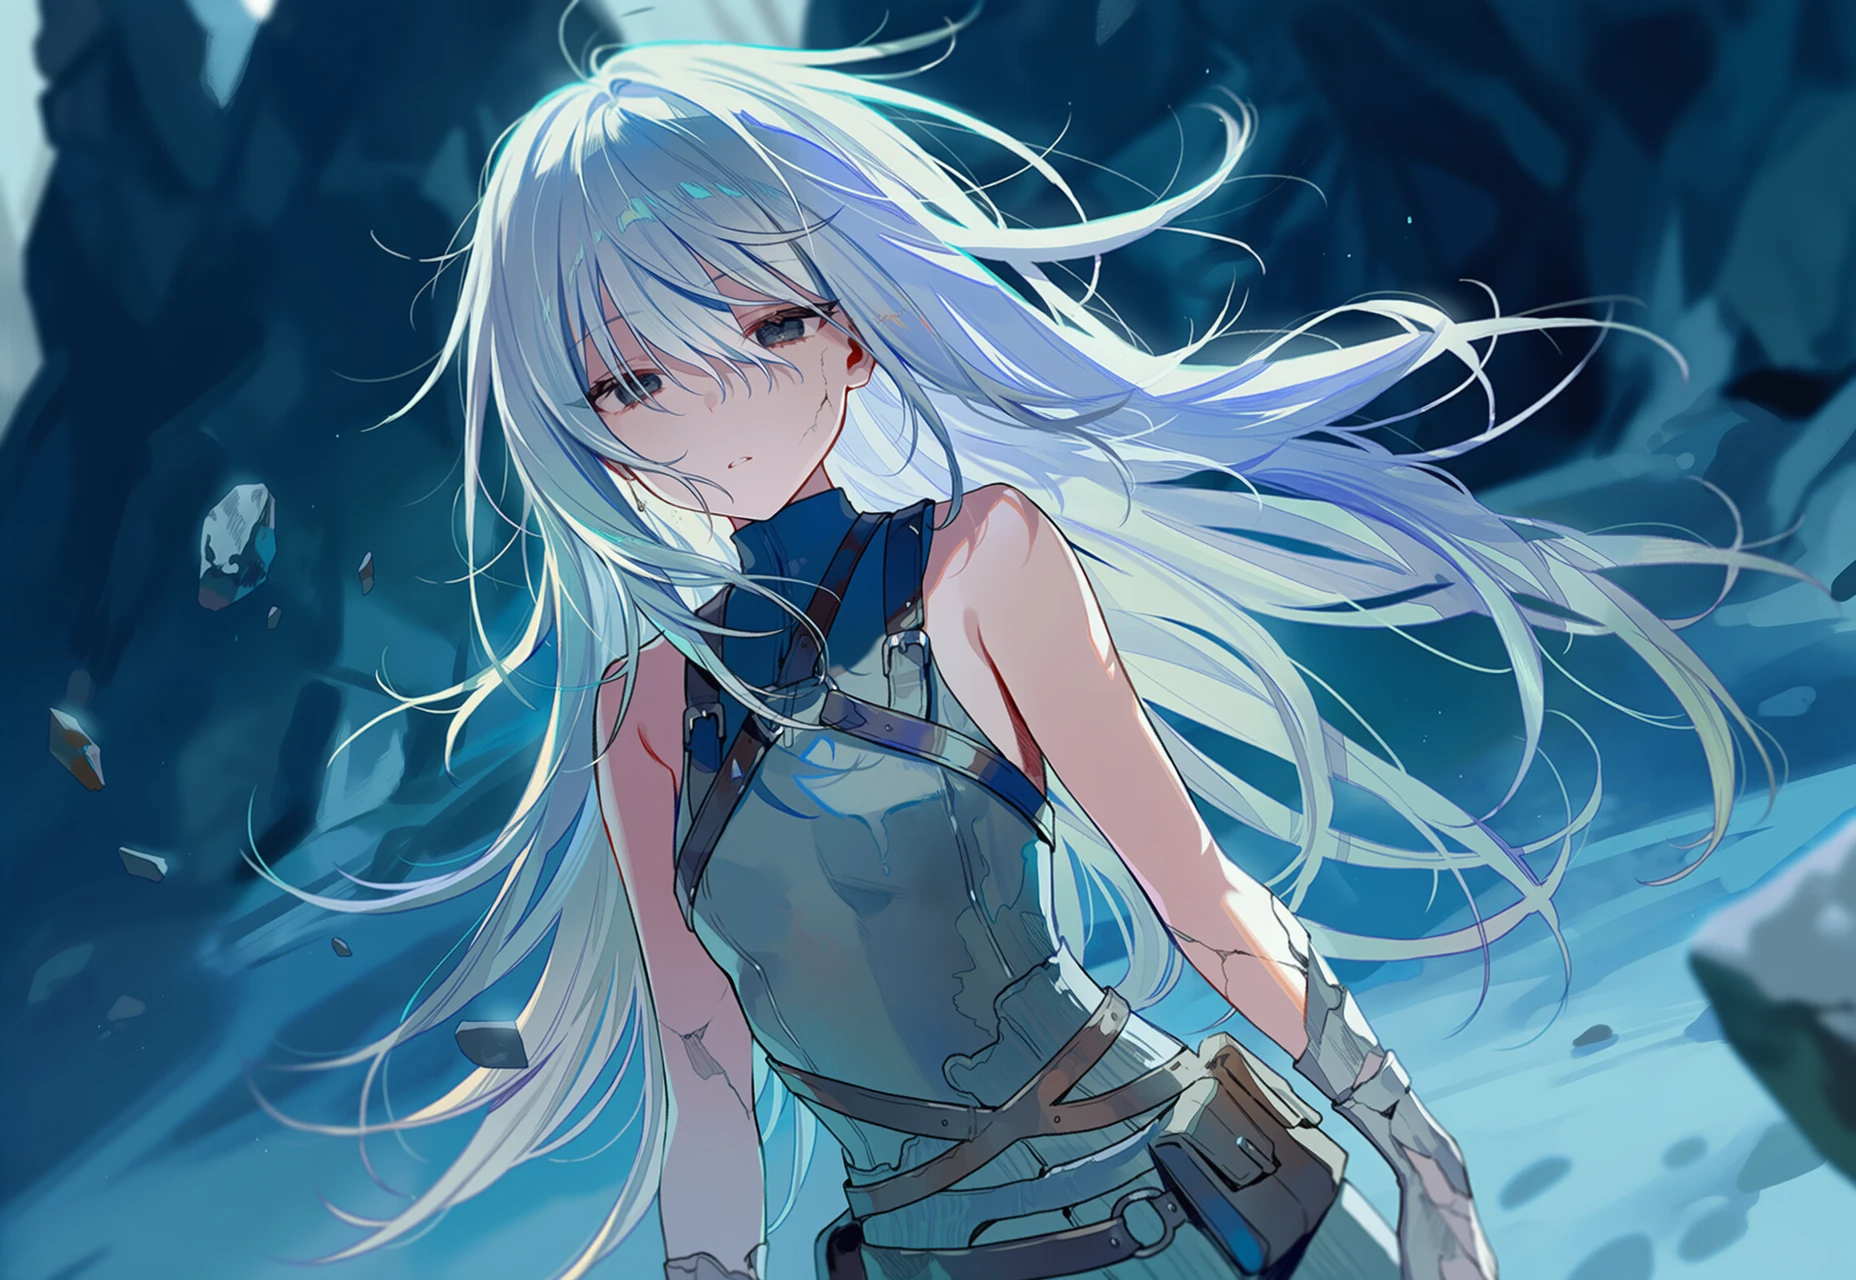
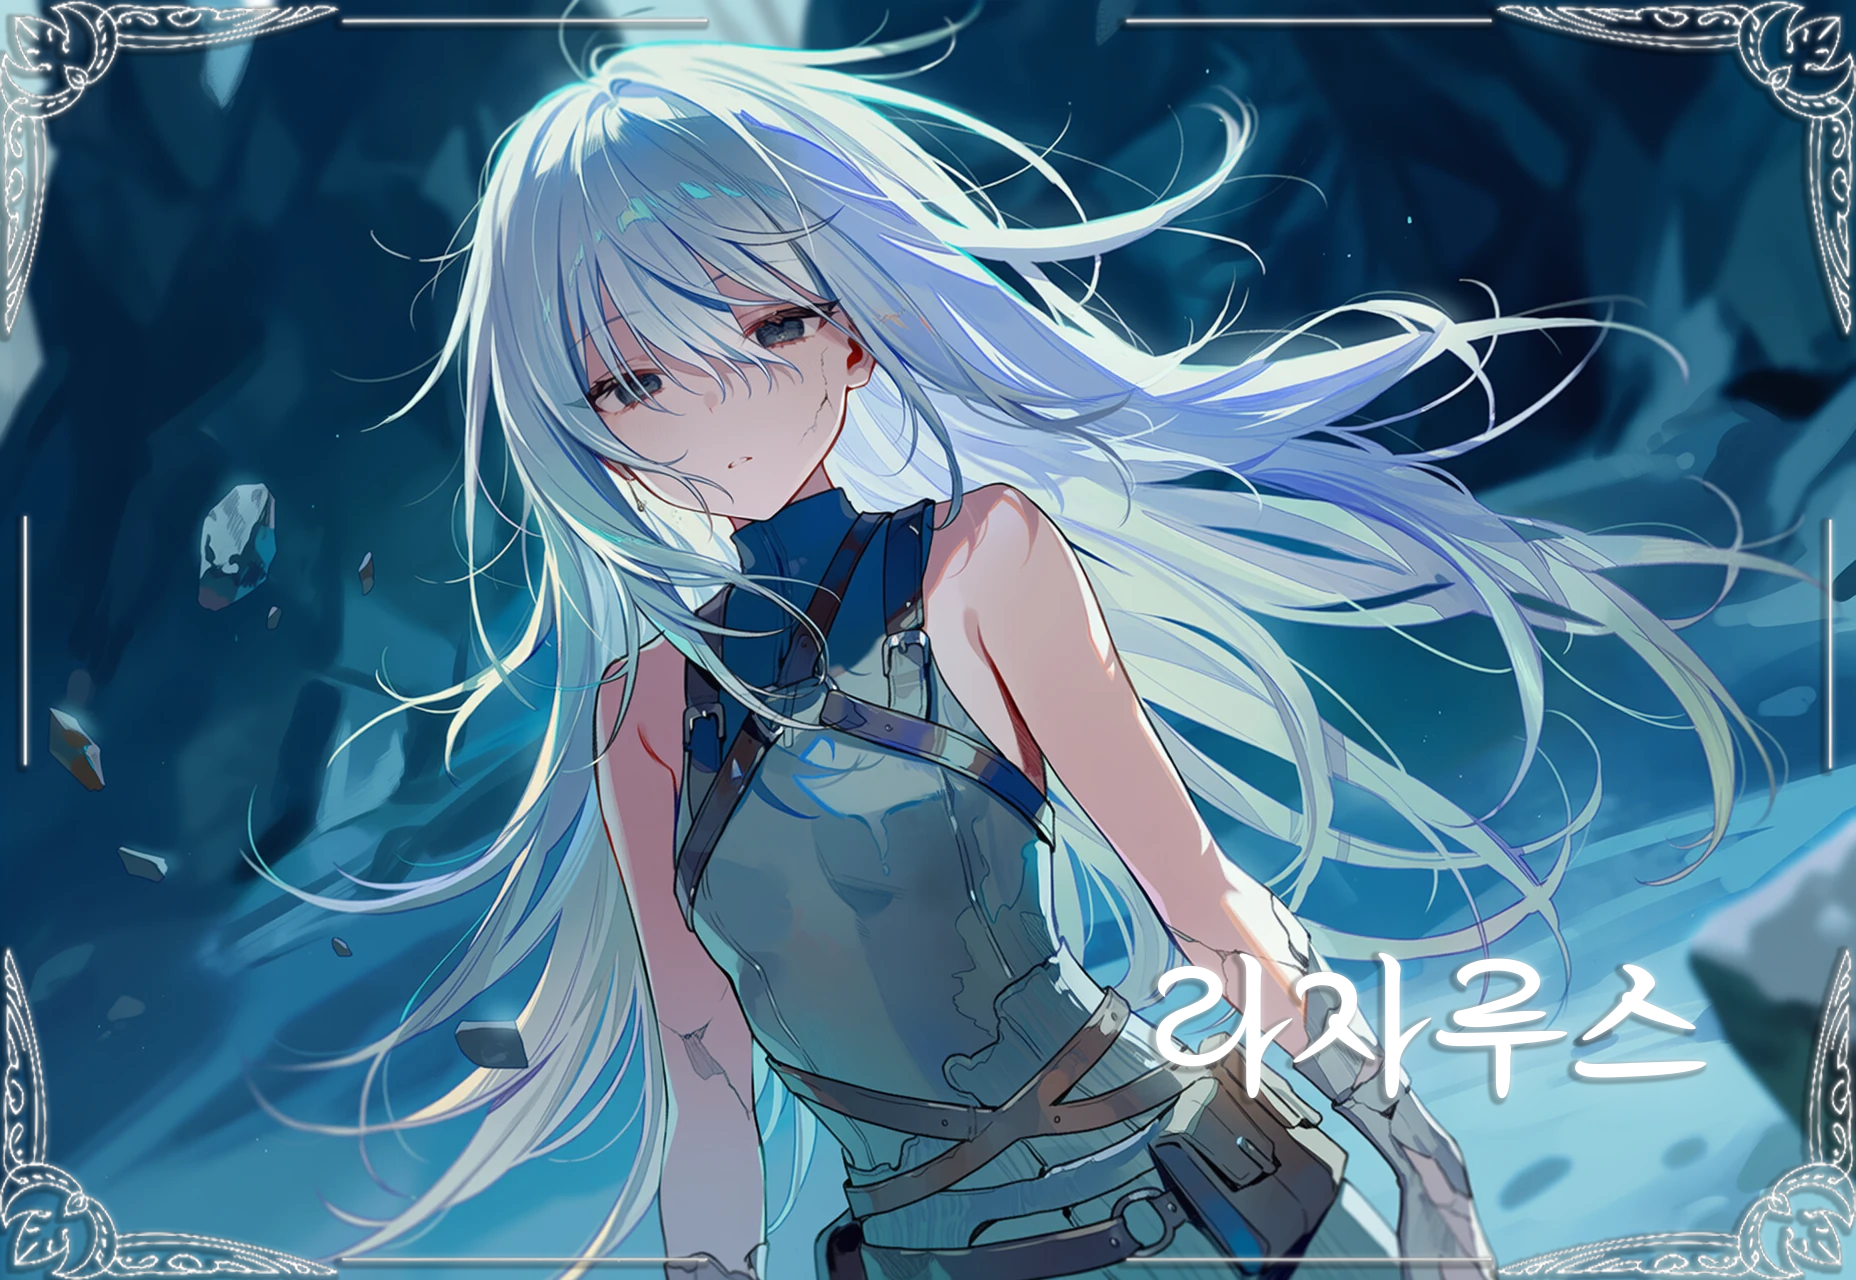
완

diff --git a/MSJ/char.html b/MSJ/char.html
@@ -1,0 +1,325 @@
+<!DOCTYPE html>
+<html lang="ko">
+<head>
+  <meta charset="UTF-8" />
+  <title>루멘 크로니클 캐릭터 소개</title>
+  <style>
+    body {
+      margin: 0;
+      padding: 40px 16px;
+      font-family: system-ui, -apple-system, BlinkMacSystemFont, "Segoe UI",
+        sans-serif;
+      background: #05060a;
+      color: #f5f5f5;
+    }
+
+    .container {
+      max-width: 1200px;
+      margin: 0 auto;
+    }
+
+    h1 {
+      margin: 0 0 24px;
+      font-size: 1.6rem;
+      font-weight: 700;
+    }
+
+    .character-grid {
+      display: flex;
+      flex-wrap: wrap;
+      gap: 24px;
+    }
+
+    .character-card {
+      flex: 1 1 260px;
+      max-width: 340px;
+      background: rgba(255, 255, 255, 0.03);
+      border-radius: 18px;
+      padding: 14px 14px 16px;
+      border: 1px solid rgba(255, 255, 255, 0.08);
+      box-shadow: 0 12px 28px rgba(0, 0, 0, 0.45);
+    }
+
+    .character-image-wrap {
+      width: 100%;
+      aspect-ratio: 29 / 20; /* 1856 x 1280 비율 */
+      overflow: hidden;
+      border-radius: 14px;
+      background: #11131a;
+    }
+
+    .character-image-wrap img {
+      width: 100%;
+      height: 100%;
+      object-fit: cover;
+      display: block;
+    }
+
+    .character-name {
+      margin: 12px 0 4px;
+      font-size: 1.05rem;
+      font-weight: 700;
+    }
+
+    .character-meta {
+      margin: 0;
+      font-size: 0.86rem;
+      line-height: 1.5;
+      color: #d0d0d0;
+    }
+
+    .character-meta span.label {
+      color: #9aa0ff;
+      font-weight: 600;
+      margin-right: 4px;
+    }
+
+    @media (max-width: 768px) {
+      .character-grid {
+        flex-direction: column;
+      }
+      .character-card {
+        max-width: 100%;
+      }
+    }
+  </style>
+</head>
+<body>
+  <div class="container">
+    <h1>루멘 크로니클 캐릭터 소개</h1>
+
+    <div class="character-grid">
+      <!-- a: 리시아 벨도라 -->
+      <div class="character-card">
+        <div class="character-image-wrap">
+          <img src="https://daepajoa.moe/MSJ/a/101.webp" alt="리시아 벨도라" />
+        </div>
+        <p class="character-name">리시아 벨도라</p>
+        <p class="character-meta">
+          <span class="label">정보</span> 100+세(불명) · 여성 · 불멸의 여제
+        </p>
+      </div>
+
+      <!-- b: 세라 린델 -->
+      <div class="character-card">
+        <div class="character-image-wrap">
+          <img src="https://daepajoa.moe/MSJ/b/101.webp" alt="세라 린델" />
+        </div>
+        <p class="character-name">세라 린델</p>
+        <p class="character-meta">
+          <span class="label">정보</span> 26세 · 여성 · 성녀
+        </p>
+      </div>
+
+      <!-- c: 사리엘 -->
+      <div class="character-card">
+        <div class="character-image-wrap">
+          <img src="https://daepajoa.moe/MSJ/c/101.webp" alt="사리엘" />
+        </div>
+        <p class="character-name">사리엘</p>
+        <p class="character-meta">
+          <span class="label">정보</span> 34세 · 여성 · 그림자 사제
+        </p>
+      </div>
+
+      <!-- d: 엘라나 미스트렌 -->
+      <div class="character-card">
+        <div class="character-image-wrap">
+          <img src="https://daepajoa.moe/MSJ/d/101.webp" alt="엘라나 미스트렌" />
+        </div>
+        <p class="character-name">엘라나 미스트렌</p>
+        <p class="character-meta">
+          <span class="label">정보</span> 29세 · 여성 · 채집자길드 중간관리자
+        </p>
+      </div>
+
+      <!-- e: 칼라 아네모스 -->
+      <div class="character-card">
+        <div class="character-image-wrap">
+          <img src="https://daepajoa.moe/MSJ/e/101.webp" alt="칼라 아네모스" />
+        </div>
+        <p class="character-name">칼라 아네모스</p>
+        <p class="character-meta">
+          <span class="label">정보</span> 31세 · 여성 · 용병연맹 대장
+        </p>
+      </div>
+
+      <!-- f: 다리우스 알트하임 -->
+      <div class="character-card">
+        <div class="character-image-wrap">
+          <img src="https://daepajoa.moe/MSJ/f/101.webp" alt="다리우스 알트하임" />
+        </div>
+        <p class="character-name">다리우스 알트하임</p>
+        <p class="character-meta">
+          <span class="label">정보</span> 38세 · 남성 · 아르디움제국 섭정
+        </p>
+      </div>
+
+      <!-- g: 아이리스 알트하임 -->
+      <div class="character-card">
+        <div class="character-image-wrap">
+          <img src="https://daepajoa.moe/MSJ/g/101.webp" alt="아이리스 알트하임" />
+        </div>
+        <p class="character-name">아이리스 알트하임</p>
+        <p class="character-meta">
+          <span class="label">정보</span> 24세 · 여성 · 아르디움제국 황녀
+        </p>
+      </div>
+
+      <!-- h: 라자루스 -->
+      <div class="character-card">
+        <div class="character-image-wrap">
+          <img src="https://daepajoa.moe/MSJ/h/101.webp" alt="라자루스" />
+        </div>
+        <p class="character-name">라자루스</p>
+        <p class="character-meta">
+          <span class="label">정보</span> 불명 · 여성 · 광부
+        </p>
+      </div>
+
+      <!-- i: 벨라 -->
+      <div class="character-card">
+        <div class="character-image-wrap">
+          <img src="https://daepajoa.moe/MSJ/i/101.webp" alt="벨라" />
+        </div>
+        <p class="character-name">벨라</p>
+        <p class="character-meta">
+          <span class="label">정보</span> 22세 · 여성 · 3류 채집자
+        </p>
+      </div>
+
+      <!-- j: 이오스 -->
+      <div class="character-card">
+        <div class="character-image-wrap">
+          <img src="https://daepajoa.moe/MSJ/j/101.webp" alt="이오스" />
+        </div>
+        <p class="character-name">이오스</p>
+        <p class="character-meta">
+          <span class="label">정보</span> 25세 · 남성 · 추방 연금사
+        </p>
+      </div>
+
+      <!-- k: 리안 -->
+      <div class="character-card">
+        <div class="character-image-wrap">
+          <img src="https://daepajoa.moe/MSJ/k/101.webp" alt="리안" />
+        </div>
+        <p class="character-name">리안</p>
+        <p class="character-meta">
+          <span class="label">정보</span> 28세 · 여성 · 반인반마 용병
+        </p>
+      </div>
+
+      <!-- l: 오르딘 -->
+      <div class="character-card">
+        <div class="character-image-wrap">
+          <img src="https://daepajoa.moe/MSJ/l/101.webp" alt="오르딘" />
+        </div>
+        <p class="character-name">오르딘</p>
+        <p class="character-meta">
+          <span class="label">정보</span> 35세 · 남성 · 황금연합 밀수왕
+        </p>
+      </div>
+
+      <!-- m: 미아 -->
+      <div class="character-card">
+        <div class="character-image-wrap">
+          <img src="https://daepajoa.moe/MSJ/m/101.webp" alt="미아" />
+        </div>
+        <p class="character-name">미아</p>
+        <p class="character-meta">
+          <span class="label">정보</span> 33세 · 여성 · 황금연합 대상인
+        </p>
+      </div>
+
+      <!-- n: 에스텔 -->
+      <div class="character-card">
+        <div class="character-image-wrap">
+          <img src="https://daepajoa.moe/MSJ/n/101.webp" alt="에스텔" />
+        </div>
+        <p class="character-name">에스텔</p>
+        <p class="character-meta">
+          <span class="label">정보</span> 26세 · 여성 · 정보상
+        </p>
+      </div>
+
+      <!-- o: 미루스 벨하임 -->
+      <div class="character-card">
+        <div class="character-image-wrap">
+          <img src="https://daepajoa.moe/MSJ/o/101.webp" alt="미루스 벨하임" />
+        </div>
+        <p class="character-name">미루스 벨하임</p>
+        <p class="character-meta">
+          <span class="label">정보</span> 불명 · 여성 · 프리그족 얼음사제
+        </p>
+      </div>
+
+      <!-- p: 하랄드 프리그손 -->
+      <div class="character-card">
+        <div class="character-image-wrap">
+          <img src="https://daepajoa.moe/MSJ/p/101.webp" alt="하랄드 프리그손" />
+        </div>
+        <p class="character-name">하랄드 프리그손</p>
+        <p class="character-meta">
+          <span class="label">정보</span> 87세 · 남성 · 프리그족 장로
+        </p>
+      </div>
+
+      <!-- q: 마리오넬 -->
+      <div class="character-card">
+        <div class="character-image-wrap">
+          <img src="https://daepajoa.moe/MSJ/q/101.webp" alt="마리오넬" />
+        </div>
+        <p class="character-name">마리오넬</p>
+        <p class="character-meta">
+          <span class="label">정보</span> 30세 · 여성 · 루멘교 전령관
+        </p>
+      </div>
+
+      <!-- r: 사리아 -->
+      <div class="character-card">
+        <div class="character-image-wrap">
+          <img src="https://daepajoa.moe/MSJ/r/101.webp" alt="사리아" />
+        </div>
+        <p class="character-name">사리아</p>
+        <p class="character-meta">
+          <span class="label">정보</span> 22세 · 여성 · 이아노스교 하급 사제
+        </p>
+      </div>
+
+      <!-- s: 빙혈룡 -->
+      <div class="character-card">
+        <div class="character-image-wrap">
+          <img src="https://daepajoa.moe/MSJ/s/101.webp" alt="빙혈룡" />
+        </div>
+        <p class="character-name">빙혈룡</p>
+        <p class="character-meta">
+          <span class="label">정보</span> 1000+세 · 여성 · 프로스트 드래곤
+        </p>
+      </div>
+
+      <!-- t: 루멘 -->
+      <div class="character-card">
+        <div class="character-image-wrap">
+          <img src="https://daepajoa.moe/MSJ/t/101.webp" alt="루멘" />
+        </div>
+        <p class="character-name">루멘</p>
+        <p class="character-meta">
+          <span class="label">정보</span> ?? · 여성 · 빛과 생명의 신
+        </p>
+      </div>
+
+      <!-- u: 이아노스 -->
+      <div class="character-card">
+        <div class="character-image-wrap">
+          <img src="https://daepajoa.moe/MSJ/u/101.webp" alt="이아노스" />
+        </div>
+        <p class="character-name">이아노스</p>
+        <p class="character-meta">
+          <span class="label">정보</span> ?? · 여성 · 어둠과 죽음의 신
+        </p>
+      </div>
+    </div>
+  </div>
+</body>
+</html>
